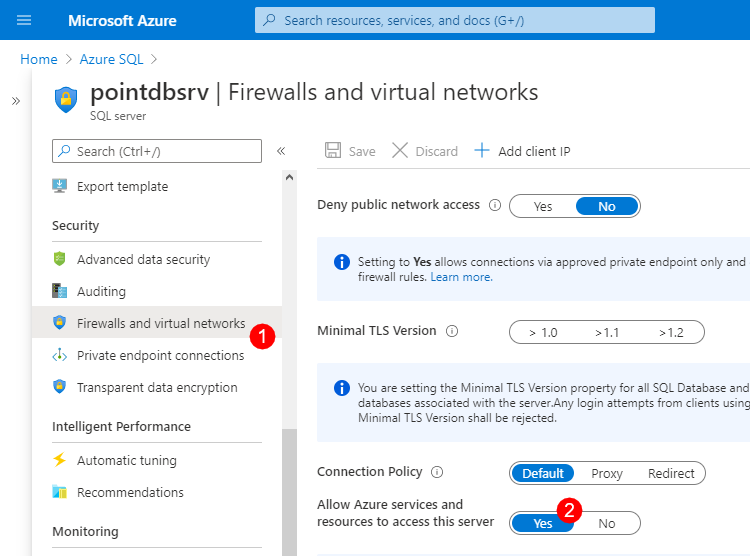
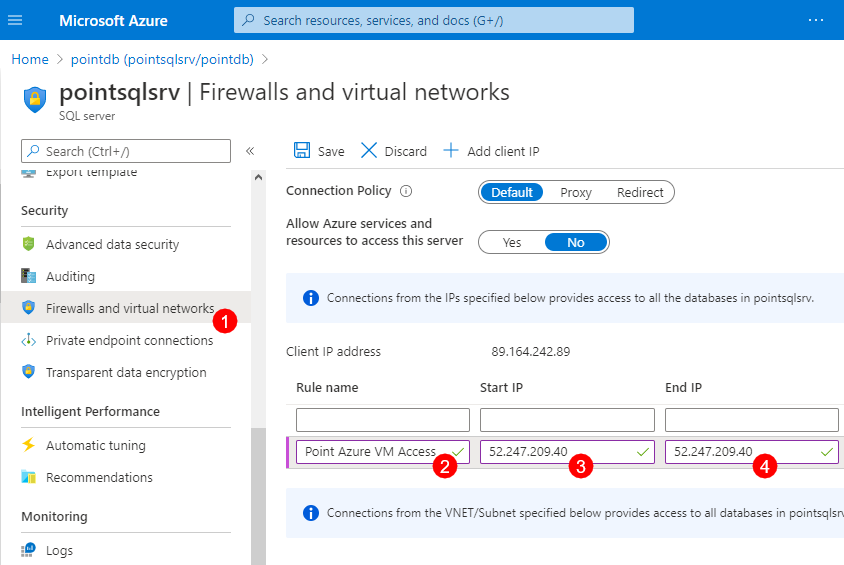
IP firewall rule added

diff --git a/installation-and-configuration/deploy-to-azure/prerequisites/create-azure-sql-database.md b/installation-and-configuration/deploy-to-azure/prerequisites/create-azure-sql-database.md
@@ -4,6 +4,10 @@ description: >-
   and configure SysKit Point in the Azure environment.
 ---
 
+{% hint style="success" %}
+Before continuing, make sure to [create and configure an Azure Virtual Machine](create-azure-vm.md) where SysKit Point will be installed.  
+{% endhint %}
+
 SysKit Point requires an **Azure SQL database** for storing data collected from Office 365. In this article, you can find recommendations to follow when creating this resource.
 
 ## Resource Requirements per Subscription Plan
@@ -45,24 +49,24 @@ Recommended for Office 365 environments with more than 10000 users and sites.
 
 ## Prepare for Installation & Configuration
 
-### Creating the Database
-
 When creating the database ensure the following:
 * **resource requirements are met**
 * **a dedicated Azure SQL database is created for SysKit Point.**
-* the **Allow Azure services to access server** option is enabled
+* **Azure Virtual Machine, where SysKit Point will be installed, has access to Azure SQL database**
 
-{% hint style="success" %}
-By enabling the **Allow Azure services to access server** option, you are also enabling SysKit Point to connect to the Azure SQL database.
-{% endhint %}
+### Allowing Access to Azure SQL Database
 
-To enable the **Allow Azure services to access server** option, follow these steps:
+After the Azure SQL database is created, you need to allow Azure Virtual Machine, where SysKit Point will be installed, to access it.
+To do so, you must create a new firewall rule, as described in the steps below:
+
 * **Open** [Azure portal](https://portal.azure.com)
 * **Navigate to your Azure SQL server**
-* **Click** the **Firewalls and virtual networks (1)** option in the **Security** section
-* **Set** the **Allow Azure services and resources to access this server (2)** setting to **Yes**
+* **Select** the **Firewalls and virtual networks (1)** option in the **Security** section
+* **Define a Rule name (2)**
+* **Input the IP Address** of the Azure Virtual Machine where SysKit Point will be installed into the **Start IP (3)** and **End IP (4)** fields
+* **Save** changes
 
-![Azure SQL - Allow Azure services and resources to access this server](../../../.gitbook/assets/create-azure-sql-database_allow-access.png)
+![Azure SQL - Adding a firewall rule](../../../.gitbook/assets/create-azure-sql-database_allow-access.png)
 
 {% hint style="warning" %}
 **Please note!**  

diff --git a/installation-and-configuration/deploy-to-azure/prerequisites/create-azure-vm.md b/installation-and-configuration/deploy-to-azure/prerequisites/create-azure-vm.md
@@ -66,17 +66,13 @@ Additionally, the following is needed for SysKit Point configuration:
 
 {% hint style="warning" %}
 **Please note!**  
-Once installed and configured, SysKit Point web-app can be accessed and used with a non-privileged user account.
+* **Once installed and configured, SysKit Point web-app can be accessed and used with a non-privileged user account.**
+* **After the SysKit Point configuration is completed, the inbound rule allowing RDP connections can be removed.**
+* **Office 365 Global Admin credentials are only needed when configuring SysKit Point for the first time.**
 {% endhint %}
 
-{% hint style="warning" %}
-**Please note!**  
-After the SysKit Point configuration is completed, the inbound rule allowing RDP connections can be removed.
-{% endhint %}
-
-{% hint style="warning" %}
-**Please note!**  
-Office 365 Global Admin credentials are only needed when configuring SysKit Point for the first time.
+{% hint style="success" %}
+* The Public IP address defined here is needed when [allowing access to Azure SQL database](create-azure-sql-database.md#allowing-access-to-azure-sql-database), so make sure to have it at hand.
 {% endhint %}
 
 ### Service Account
